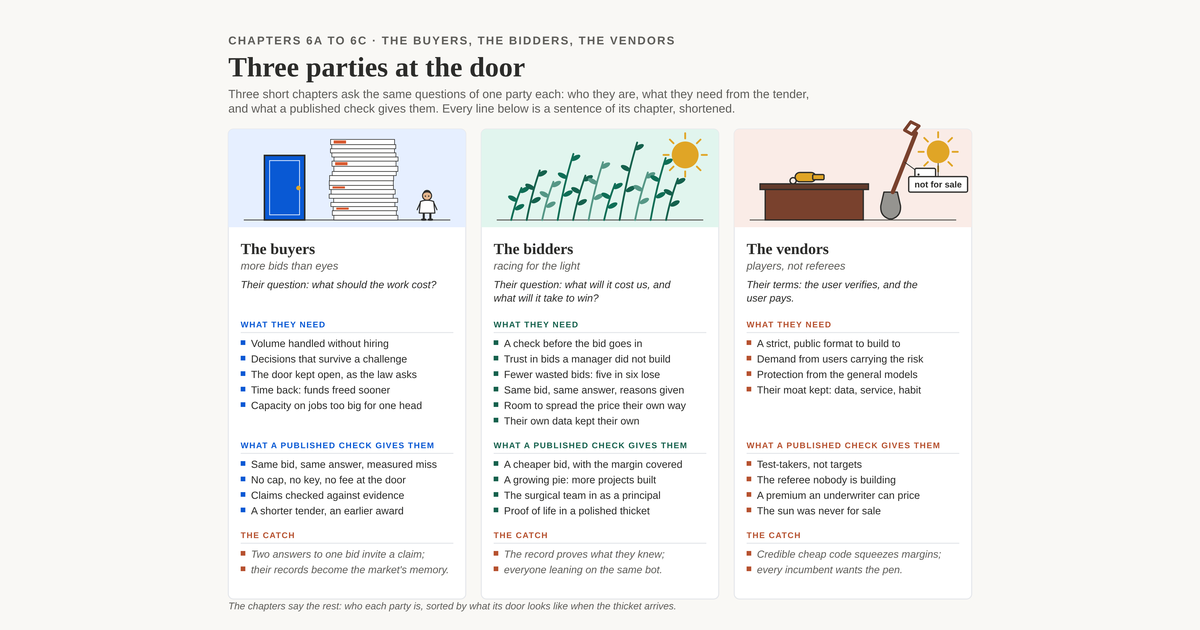
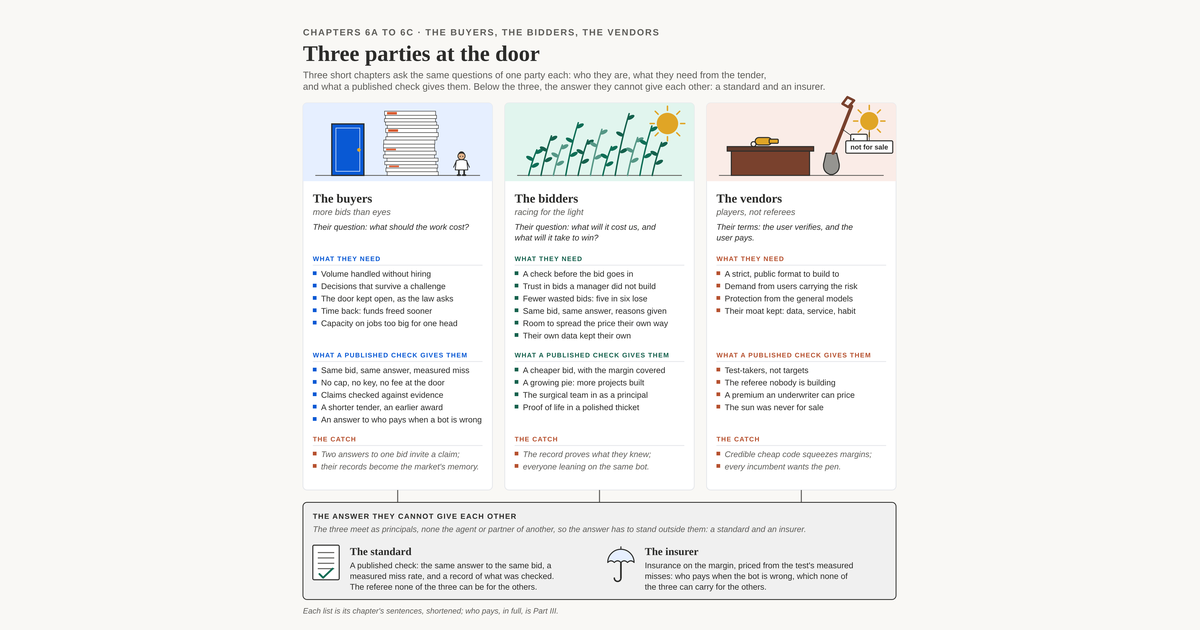
Chapter 6 and 6a: the standard and the insurer join the three parties; the slack chart returns with the book's instruments
"Three parties at the door" gains a band under the three panels for
the answer they cannot give each other, the standard and the insurer,
since the parties meet as principals. "Slack, and the other option"
goes back to the chart, which read better than the ledger, with the
ledger's roots folded into its two boxes and its slack label. Alt
texts, hidden notes, the images README, 6a's link card and the site
preview text follow.

Claude-Session: https://claude.ai/code/session_01JEzVpenYYc4HngcZLpHT1H

Changed region(s): [[0.185, 0.0302, 0.8017, 0.9952]]

diff --git a/images/slack_other_option.py b/images/slack_other_option.py
@@ -1,5 +1,5 @@
-"""Slack, and the other option: Galbraith's two choices, found across the book (chapter 6; a ledger, not data).
-Usage: python images/slack_other_option.py images/slack-other-option   (writes the .svg and an .html; render at 1600 1200, see images/README.md)
+"""Slack, and the other option: Galbraith's two choices (chapter 6, schematic, not data), with the book's slack and capacity instruments listed.
+Usage: python images/slack_other_option.py images/slack-other-option   (writes the .svg and an .html; render at 1600 1240, see images/README.md)
 """
 import sys, html
 C = dict(action="#0064ff", action_t="#e6efff", sec="#0f6e56", sec_t="#e1f5ee",
@@ -9,7 +9,7 @@ def mix(a, b, f):
     A = [int(a[i:i+2], 16) for i in (1, 3, 5)]; B = [int(b[i:i+2], 16) for i in (1, 3, 5)]
     return "#%02x%02x%02x" % tuple(round(A[i] + (B[i] - A[i]) * f) for i in range(3))
 D = {k: mix(C[k], C["ink"], 0.2) for k in ("action", "sec", "acc", "ink2")}
-W, H = 1600, 1200
+W, H = 1600, 1240
 def t(x, y, s, cls, fill=None, anchor="start"):
     f = f' fill="{fill}"' if fill else ""
     return f'<text x="{x}" y="{y}" class="{cls}" text-anchor="{anchor}"{f}>{html.escape(s)}</text>'
@@ -25,80 +25,93 @@ def wrap(s, n):
 o = [f'<rect width="{W}" height="{H}" fill="{C["canvas"]}"/>']
 o.append(t(80, 86, "CHAPTER 6 · SLACK, AND THE OTHER OPTION", "eyebrow"))
 o.append(t(80, 148, "Slack, and the other option", "title"))
-o.append(t(80, 190, "An organization facing more than it can process has two choices, Galbraith wrote: add slack, or raise its capacity to", "dek"))
-o.append(t(80, 218, "process information. Construction has always chosen slack. Here is where this book finds it, and what the project puts in its place.", "dek"))
-# ---- the two columns and the spine between them
-LX0, LX1, RX0, RX1, SX = 80, 660, 940, 1520, 800
-CWID = LX1 - LX0
-o.append(t(LX0, 302, "Add slack", "lab", D["ink2"]))
-o.append(t(LX0, 332, "construction's habit: more time, more money, more cushion between the parts", "note", C["ink2"]))
-o.append(f'<line x1="{LX0}" y1="348" x2="{LX1}" y2="348" stroke="{D["ink2"]}" stroke-width="3"/>')
-o.append(t(RX0, 302, "Raise the capacity", "lab", D["sec"]))
-o.append(t(RX0, 332, "the other option: the same check for every bid, with a record", "note", C["ink2"]))
-o.append(f'<line x1="{RX0}" y1="348" x2="{RX1}" y2="348" stroke="{D["sec"]}" stroke-width="3"/>')
-rows = [
-    ("The drawings",
-     "Bug-free drawings are a mythical beast, so the bid carries a cushion for their errors.",
-     "A second opinion on every price: a check that flags a line for the firm's own review before the bid goes in."),
-    ("The tender",
-     "A long tender period, a plan room and an evaluation committee, built for a few large bidders and time to read.",
-     "The tender as a data file, and the same check applied the same way to every bid: same bid, same answer, a measured miss rate."),
-    ("The cost of bidding",
-     "The oak: an estimating department, a bonding line and the patience to lose five bids in six, billed as overhead to the jobs that are won.",
-     "A published check reads a thousand bids the same way, so the door stays open without a cap, a key or a fee, and the cost to bid drops."),
-    ("After the award",
-     "The contingency carries a cushion for the rest, and every change is a purchase from a supplier of one, reviewed by whoever has time.",
-     "The evaluator prices each line of a change and hands it to the keyholder, who signs with a reason and leaves a record of what was checked."),
-    ("Who pays",
-     "The margin eats the error: a miss the size of the winner's lead is the year's profit on the job, and the surety stands behind the firm.",
-     "Insurance on the margin picks up the tails a probabilistic tool will always have, priced from the test's measured misses."),
-    ("The whole industry",
-     "Taylorism's gains have plateaued, and so has the largest firm: it bids on a lot and works on a lot, and its size stays where it is.",
-     "A standard: a template and a record, a public test, and a market memory anyone can read against, so more workers step into principal roles."),
+o.append(t(80, 190, "An organization facing more than it can process has two choices, Galbraith wrote: add slack, or raise its capacity", "dek"))
+o.append(t(80, 218, "to process information. Construction has always chosen slack. AI took the slack away and left the attention needed where it was.", "dek"))
+# ---- the chart
+X0, X1, Y0, Y1 = 160, 960, 330, 1080
+ATT = 800
+def bids_y(x):
+    if x <= 760:
+        return 1020 - (x - X0) * 0.05
+    u = (x - 760) / (X1 - 760)
+    return 1020 - (760 - X0) * 0.05 - 600 * (u ** 2.2)
+pts = [(x, bids_y(x)) for x in range(X0, X1 + 1, 4)]
+xcross = next(x for x, y in pts if y <= ATT)
+before = [(x, y) for x, y in pts if x <= xcross] + [(xcross, ATT), (X0, ATT)]
+after = [(x, y) for x, y in pts if x >= xcross] + [(X1, ATT), (xcross, ATT)]
+o.append('<polygon points="' + " ".join(f"{x:.1f},{y:.1f}" for x, y in before) + f'" fill="{C["sec_t"]}"/>')
+o.append('<polygon points="' + " ".join(f"{x:.1f},{y:.1f}" for x, y in after) + f'" fill="{C["acc_t"]}"/>')
+for ex in (480, 760):
+    o.append(f'<line x1="{ex}" y1="{Y0}" x2="{ex}" y2="{Y1}" stroke="{C["hair"]}" stroke-width="2" stroke-dasharray="6 6"/>')
+o.append(f'<line x1="{X0}" y1="{Y1}" x2="{X1}" y2="{Y1}" stroke="{C["ink2"]}" stroke-width="2"/>')
+o.append(f'<line x1="{X0}" y1="{Y0}" x2="{X0}" y2="{Y1}" stroke="{C["ink2"]}" stroke-width="2"/>')
+o.append(f'<line x1="{X0}" y1="{ATT}" x2="{X1}" y2="{ATT}" stroke="{C["action"]}" stroke-width="3.5" stroke-linecap="round"/>')
+o.append('<path d="M' + " L".join(f"{x:.1f},{y:.1f}" for x, y in pts) + f'" fill="none" stroke="{C["acc"]}" stroke-width="3.5" stroke-linecap="round" stroke-linejoin="round"/>')
+o.append(f'<circle cx="{X1}" cy="{bids_y(X1):.1f}" r="7" fill="{C["acc"]}" stroke="{C["canvas"]}" stroke-width="2"/>')
+o.append(f'<circle cx="{X1}" cy="{ATT}" r="7" fill="{C["action"]}" stroke="{C["canvas"]}" stroke-width="2"/>')
+o.append(t(X0 - 8, Y0 - 14, "how many", "axis", C["ink2"], "start"))
+for (xa, xb, lab) in ((X0, 480, "the plan room"), (480, 760, "the plan room online"), (760, X1, "AI makes the call nearly free")):
+    o.append(t((xa + xb) / 2, Y1 + 34, lab, "axis", C["ink2"], "middle"))
+o.append(t((X0 + X1) / 2, Y1 + 62, "time, left to right", "axisnote", C["ink2"], "middle"))
+# region labels: slack below the attention line, the thicket above it
+o.append(t(400, 870, "slack", "lab", D["sec"], "middle"))
+o.append(t(400, 898, "the oak kept the stack of bids", "note", C["ink"], "middle"))
+o.append(t(400, 923, "small enough for a committee to read;", "note", C["ink"], "middle"))
+o.append(t(400, 948, "under it, the cushion, the contingency,", "note", C["ink"], "middle"))
+o.append(t(400, 973, "the long tender, the margin that eats the error", "note", C["ink"], "middle"))
+o.append(t(880, 560, "the thicket", "lab", D["acc"], "end"))
+o.append(t(880, 588, "slack released without", "note", C["ink"], "end"))
+o.append(t(880, 614, "the capacity to meet it", "note", C["ink"], "end"))
+o.append(f'<line x1="{X1-50}" y1="{bids_y(X1)-30:.1f}" x2="{X1-14}" y2="{bids_y(X1)-30:.1f}" stroke="{C["acc"]}" stroke-width="3.5"/>')
+o.append(t(X1 - 60, bids_y(X1) - 24, "bids arriving at the door", "note", C["ink"], "end"))
+o.append(f'<line x1="{X0+16}" y1="{ATT-26}" x2="{X0+56}" y2="{ATT-26}" stroke="{C["action"]}" stroke-width="3.5"/>')
+o.append(t(X0 + 66, ATT - 20, "the attention available to read them", "note", C["ink"], "start"))
+o.append(f'<line x1="{X0}" y1="{Y0+4}" x2="{X0+36}" y2="{Y0+4}" stroke="{C["acc"]}" stroke-width="3.5"/>')
+o.append(t(X0 + 46, Y0 + 10, "bids per tender", "legend", C["ink2"]))
+o.append(f'<line x1="{X0+230}" y1="{Y0+4}" x2="{X0+266}" y2="{Y0+4}" stroke="{C["action"]}" stroke-width="3.5"/>')
+o.append(t(X0 + 276, Y0 + 10, "eyes to read them", "legend", C["ink2"]))
+# ---- the two choices, with where the book finds each
+RX = 1040
+o.append(t(RX, 334, "Two choices, through the book", "lab", C["ink"]))
+boxes = [
+    (360, "Add slack", D["ink2"], C["hair"],
+     ["A bid cushion for the drawings' errors", "A long tender, a plan room, a committee", "The oak: five bids in six lost, as overhead",
+      "A contingency for the rest", "Changes bought from a supplier of one", "Reviews by whoever has time",
+      "The margin eats the error; the surety waits", "Taylorism and the largest firms plateau"],
+     "Construction's habit. It no longer works: AI removed the slack and left the attention needed exactly where it was."),
+    (730, "Raise the capacity", D["sec"], C["sec_t"],
+     ["A second opinion on every price", "The tender as a data file", "The same check, the same way, every bid",
+      "A measured miss rate, and a record", "The door open: no cap, no key, no fee", "The evaluator, and the keyholder who signs",
+      "Insurance on the margin picks up the tails", "A standard: template, record, public test"],
+     "The other option. More data moves faster through the door without anyone acquiring a say they did not have before."),
 ]
-Y0, PITCH, CH = 380, 110, 96
-o.append(f'<line x1="{SX}" y1="{Y0-6}" x2="{SX}" y2="{Y0+len(rows)*PITCH-14}" stroke="{C["hair"]}" stroke-width="3"/>')
-for i, (station, left, right) in enumerate(rows):
-    y = Y0 + i * PITCH
-    o.append(f'<rect x="{LX0}" y="{y}" width="{CWID}" height="{CH}" rx="8" fill="{C["hair"]}" stroke="{D["ink2"]}" stroke-width="1.5"/>')
-    yy = y + 34
-    for ln in wrap(left, 50):
-        o.append(t(LX0 + 22, yy, ln, "cell", C["ink"])); yy += 26
-    o.append(f'<rect x="{RX0}" y="{y}" width="{CWID}" height="{CH}" rx="8" fill="{C["sec_t"]}" stroke="{D["sec"]}" stroke-width="1.5"/>')
-    yy = y + 34
-    for ln in wrap(right, 50):
-        o.append(t(RX0 + 22, yy, ln, "cell", C["ink"])); yy += 26
-    o.append(f'<circle cx="{SX}" cy="{y+16}" r="9" fill="{C["canvas"]}" stroke="{C["ink"]}" stroke-width="3"/>')
-    o.append(f'<text x="{SX}" y="{y+52}" class="station" text-anchor="middle" fill="{C["ink"]}" stroke="{C["canvas"]}" stroke-width="10" paint-order="stroke" stroke-linejoin="round">{html.escape(station)}</text>')
-# ---- what changed, in one band
-yb = Y0 + len(rows) * PITCH + 16
-o.append(f'<line x1="80" y1="{yb}" x2="{W-80}" y2="{yb}" stroke="{C["hair"]}" stroke-width="2"/>')
-o.append(t(80, yb + 40, "What changed: AI made the call nearly free. It did not remove the uncertainty. It removed the slack, and left the", "cell", C["ink"]))
-o.append(t(80, yb + 68, "attention needed exactly where it was. The thicket is slack released without the capacity to meet it.", "cell", C["ink"]))
-MX0, MX1, MY = 1250, 1470, yb + 56
-o.append(f'<line x1="{MX0}" y1="{MY}" x2="{MX1}" y2="{MY}" stroke="{C["action"]}" stroke-width="3" stroke-linecap="round"/>')
-pts = []
-for k in range(0, 101):
-    u = k / 100; x = MX0 + (MX1 - MX0) * u
-    yv = MY + 30 - 12 * u - 56 * (u ** 4)
-    pts.append(f"{x:.1f},{yv:.1f}")
-o.append(f'<path d="M' + " L".join(pts) + f'" fill="none" stroke="{C["acc"]}" stroke-width="3" stroke-linecap="round"/>')
-o.append(t(MX1 + 12, MY + 6, "eyes", "mini", C["ink"]))
-o.append(t(MX1 + 12, MY - 34, "bids", "mini", C["ink"]))
-o.append(t(80, H - 40, "A ledger, not data: each cell is a sentence of the book, shortened; the two lines on the right show the idea, not counts.", "foot", C["ink2"]))
+for (by, title, col, fill, items, verdict) in boxes:
+    o.append(f'<rect x="{RX}" y="{by}" width="{W-80-RX}" height="350" rx="8" fill="{fill}" stroke="{col}" stroke-width="3"/>')
+    o.append(t(RX + 24, by + 44, title, "boxtitle", col))
+    y = by + 78
+    for it in items:
+        o.append(f'<rect x="{RX+24}" y="{y-12}" width="8" height="8" fill="{col}"/>')
+        o.append(t(RX + 42, y, it, "item", C["ink"])); y += 26
+    y += 6
+    for ln in wrap(verdict, 46):
+        o.append(t(RX + 24, y, ln, "tiny", C["ink2"])); y += 23
+o.append(t(80, H - 40, "Schematic, not data: the lines show the idea, not counts. The lists are sentences from across the book, shortened.", "foot", C["ink2"]))
 css = f'''<style>
 .eyebrow{{font:600 22px "IBM Plex Sans",Arial,sans-serif;letter-spacing:.12em;fill:{C["ink2"]}}}
 .title{{font:700 54px Georgia,"Times New Roman",serif;fill:{C["ink"]}}}
 .dek{{font:400 23px "IBM Plex Sans",Arial,sans-serif;fill:{C["ink2"]}}}
 .lab{{font:700 30px Georgia,serif}}
-.station{{font:700 22px Georgia,serif}}
+.boxtitle{{font:700 27px Georgia,serif}}
 .note{{font:400 20px "IBM Plex Sans",Arial,sans-serif}}
-.cell{{font:400 21px "IBM Plex Sans",Arial,sans-serif}}
-.mini{{font:600 17px "IBM Plex Sans",Arial,sans-serif}}
+.item{{font:400 19px "IBM Plex Sans",Arial,sans-serif}}
+.legend{{font:600 18px "IBM Plex Sans",Arial,sans-serif}}
+.axis{{font:400 19px "IBM Plex Sans",Arial,sans-serif}}
+.axisnote{{font:italic 400 17px "IBM Plex Sans",Arial,sans-serif}}
+.tiny{{font:italic 400 18px "IBM Plex Sans",Arial,sans-serif}}
 .foot{{font:italic 400 19px "IBM Plex Sans",Arial,sans-serif}}
 </style>'''
 svg = f'<svg xmlns="http://www.w3.org/2000/svg" viewBox="0 0 {W} {H}" width="{W}" height="{H}">{css}' + "".join(o) + "</svg>"
 stem = sys.argv[1] if len(sys.argv) > 1 else "slack-other-option"
 open(stem + ".svg", "w").write(svg)
 open(stem + ".html", "w").write('<!doctype html><html><head><meta charset="utf-8"><style>html,body{margin:0;background:#f9f8f5}</style></head><body>' + svg + "</body></html>")
-print("wrote", stem, "band at", yb)
+print("wrote", stem, "cross at", xcross)

diff --git a/images/three_parties.py b/images/three_parties.py
@@ -1,5 +1,5 @@
 """Three parties at the door: the buyers, the bidders and the vendors (chapters 6a to 6c, three panels).
-Usage: python images/three_parties.py images/three-parties   (writes the .svg and an .html; render at 1600 1220, see images/README.md)
+Usage: python images/three_parties.py images/three-parties   (writes the .svg and an .html; render at 1600 1530, see images/README.md)
 """
 import sys, html, math, random
 C = dict(action="#0064ff", action_t="#e6efff", sec="#0f6e56", sec_t="#e1f5ee",
@@ -9,7 +9,7 @@ def mix(a, b, f):
     A = [int(a[i:i+2], 16) for i in (1, 3, 5)]; B = [int(b[i:i+2], 16) for i in (1, 3, 5)]
     return "#%02x%02x%02x" % tuple(round(A[i] + (B[i] - A[i]) * f) for i in range(3))
 D = {k: mix(C[k], C["ink"], 0.2) for k in ("action", "sec", "acc", "ink2")}
-W, H = 1600, 1220
+W, H = 1600, 1530
 GOLD = "#e0a526"; BARK = mix(C["acc"], C["ink"], 0.55)
 L = f'stroke="{C["ink"]}" stroke-width="2.5" stroke-linejoin="round" stroke-linecap="round"'
 def t(x, y, s, cls, fill=None, anchor="start"):
@@ -42,14 +42,14 @@ def sun(x, y, r):
         g.append(f'<line x1="{x+math.cos(a)*(r+6):.1f}" y1="{y+math.sin(a)*(r+6):.1f}" x2="{x+math.cos(a)*(r+16):.1f}" y2="{y+math.sin(a)*(r+16):.1f}" stroke="{GOLD}" stroke-width="3.5" stroke-linecap="round"/>')
     g.append(f'<circle cx="{x}" cy="{y}" r="{r}" fill="{GOLD}"/>')
     return "".join(g)
-TOP, BOT, CW = 250, 1160, 460
+TOP, BOT, CW = 250, 1190, 460
 XS = (80, 570, 1060)
 BAND = 190
 o = [f'<rect width="{W}" height="{H}" fill="{C["canvas"]}"/>']
 o.append(t(80, 86, "CHAPTERS 6A TO 6C · THE BUYERS, THE BIDDERS, THE VENDORS", "eyebrow"))
 o.append(t(80, 148, "Three parties at the door", "title"))
 o.append(t(80, 190, "Three short chapters ask the same questions of one party each: who they are, what they need from the tender,", "dek"))
-o.append(t(80, 218, "and what a published check gives them. Every line below is a sentence of its chapter, shortened.", "dek"))
+o.append(t(80, 218, "and what a published check gives them. Below the three, the answer they cannot give each other: a standard and an insurer.", "dek"))
 # ---- icons, drawn inside the tinted band at the top of each panel
 def icon_buyers(bx, by):
     gy = by + BAND - 14; g = []
@@ -107,7 +107,7 @@ parties = [
          need=["Volume handled without hiring", "Decisions that survive a challenge", "The door kept open, as the law asks",
                "Time back: funds freed sooner", "Capacity on jobs too big for one head"],
          gives=["Same bid, same answer, measured miss", "No cap, no key, no fee at the door",
-                "Claims checked against evidence", "A shorter tender, an earlier award"],
+                "Claims checked against evidence", "A shorter tender, an earlier award", "An answer to who pays when a bot is wrong"],
          catch=["Two answers to one bid invite a claim;", "their records become the market's memory."]),
     dict(name="The bidders", sub="racing for the light", tint=C["sec_t"], dark=D["sec"], icon=icon_bidders,
          q="Their question: what will it cost us, and what will it take to win?",
@@ -127,7 +127,7 @@ parties = [
 NAME_Y = TOP + BAND + 52
 Y_NEED = NAME_Y + 66 + 2 * 26 + 24
 Y_GIVES = Y_NEED + 38 + 6 * 30 + 16
-Y_CATCH = Y_GIVES + 38 + 4 * 30 + 16
+Y_CATCH = Y_GIVES + 38 + 5 * 30 + 16
 def block(x, y, label, items, col, cls):
     o.append(t(x + 24, y, label, "blab", col))
     o.append(f'<line x1="{x+24}" y1="{y+10}" x2="{x+CW-24}" y2="{y+10}" stroke="{C["hair"]}" stroke-width="2"/>')
@@ -148,7 +148,35 @@ for x, p in zip(XS, parties):
     block(x, Y_NEED, "WHAT THEY NEED", p["need"], p["dark"], "item")
     block(x, Y_GIVES, "WHAT A PUBLISHED CHECK GIVES THEM", p["gives"], p["dark"], "item")
     block(x, Y_CATCH, "THE CATCH", p["catch"], D["acc"], "catch")
-o.append(t(80, H - 40, "The chapters say the rest: who each party is, sorted by what its door looks like when the thicket arrives.", "foot", C["ink2"]))
+def icon_rules(x, y):
+    g = [f'<rect x="{x}" y="{y}" width="64" height="84" rx="3" fill="#ffffff" {L}/>']
+    for k in range(4):
+        g.append(f'<line x1="{x+12}" y1="{y+18+k*13}" x2="{x+52}" y2="{y+18+k*13}" stroke="{C["ink2"]}" stroke-width="2.5"/>')
+    g.append(f'<path d="M{x+16},{y+70} l9,9 l23,-22" fill="none" stroke="{C["sec"]}" stroke-width="4.5" stroke-linecap="round" stroke-linejoin="round"/>')
+    return "".join(g)
+def icon_umbrella(x, y):
+    g = [f'<path d="M{x},{y+42} a32,32 0 0 1 64,0 q-8,-8 -16,0 q-8,-8 -16,0 q-8,-8 -16,0 q-8,-8 -16,0 z" fill="{C["action_t"]}" {L}/>']
+    g.append(f'<line x1="{x+32}" y1="{y+10}" x2="{x+32}" y2="{y+4}" {L}/>')
+    g.append(f'<line x1="{x+32}" y1="{y+42}" x2="{x+32}" y2="{y+80}" stroke="{C["ink"]}" stroke-width="4"/>')
+    g.append(f'<path d="M{x+32},{y+80} a8,8 0 0 1 -16,0" fill="none" stroke="{C["ink"]}" stroke-width="3.5" stroke-linecap="round"/>')
+    return "".join(g)
+BY0, BH = BOT + 30, 236
+for x in XS:
+    o.append(f'<line x1="{x+CW/2}" y1="{BOT}" x2="{x+CW/2}" y2="{BY0}" stroke="{C["ink2"]}" stroke-width="2.5"/>')
+o.append(f'<rect x="80" y="{BY0}" width="{W-160}" height="{BH}" rx="10" fill="{mix(C["hair"], C["canvas"], 0.55)}" stroke="{C["ink"]}" stroke-width="2"/>')
+o.append(t(104, BY0 + 40, "THE ANSWER THEY CANNOT GIVE EACH OTHER", "bhead", C["ink"]))
+o.append(t(104, BY0 + 72, "The three meet as principals, none the agent or partner of another, so the answer has to stand outside them: a standard and an insurer.", "bsub", C["ink2"]))
+halves = [
+    (104, "The standard", icon_rules, "A published check: the same answer to the same bid, a measured miss rate, and a record of what was checked. The referee none of the three can be for the others."),
+    (820, "The insurer", icon_umbrella, "Insurance on the margin, priced from the test's measured misses: who pays when the bot is wrong, which none of the three can carry for the others."),
+]
+for hx, name, icon, body in halves:
+    o.append(icon(hx, BY0 + 104))
+    o.append(t(hx + 90, BY0 + 128, name, "ans", C["ink"]))
+    yy = BY0 + 160
+    for ln in wrap(body, 56):
+        o.append(t(hx + 90, yy, ln, "anstext", C["ink"])); yy += 26
+o.append(t(80, H - 40, "Each list is its chapter's sentences, shortened; who pays, in full, is Part III.", "foot", C["ink2"]))
 css = f'''<style>
 .eyebrow{{font:600 22px "IBM Plex Sans",Arial,sans-serif;letter-spacing:.12em;fill:{C["ink2"]}}}
 .title{{font:700 54px Georgia,"Times New Roman",serif;fill:{C["ink"]}}}
@@ -161,6 +189,10 @@ css = f'''<style>
 .catch{{font:italic 400 20px "IBM Plex Sans",Arial,sans-serif}}
 .tagtext{{font:600 17px "IBM Plex Sans",Arial,sans-serif}}
 .foot{{font:italic 400 19px "IBM Plex Sans",Arial,sans-serif}}
+.bhead{{font:600 18px "IBM Plex Sans",Arial,sans-serif;letter-spacing:.1em}}
+.bsub{{font:italic 400 20px "IBM Plex Sans",Arial,sans-serif}}
+.ans{{font:700 26px Georgia,serif}}
+.anstext{{font:400 20px "IBM Plex Sans",Arial,sans-serif}}
 </style>'''
 svg = f'<svg xmlns="http://www.w3.org/2000/svg" viewBox="0 0 {W} {H}" width="{W}" height="{H}">{css}' + "".join(o) + "</svg>"
 stem = sys.argv[1] if len(sys.argv) > 1 else "three-parties"

diff --git a/build_site.py b/build_site.py
@@ -41,7 +41,7 @@ PREVIEWS = {
     "02-the-tender-is-the-api.md": ("social-card-oak-falls.png",
         "The oak falls: the cost of bidding stood as an oak over the market for a century; where it stood, a thicket races for the light"),
     "02b-the-buyers.md": ("social-card-three-parties.png",
-        "Three parties at the door: the buyers with more bids than eyes, the bidders racing for the light, the vendors selling shovels; what each needs and what a published check gives them"),
+        "Three parties at the door: the buyers with more bids than eyes, the bidders racing for the light, the vendors selling shovels; what each needs, what a published check gives them, and the standard and the insurer beneath them"),
     "app-e-pilot-term-sheet.md": ("social-card-one-losing-job.png",
         "A draft term sheet for a pilot policy insuring an estimating bot's margin, for an underwriter to mark up"),
 }

diff --git a/images/README.md b/images/README.md
@@ -15,5 +15,5 @@ Figures for the book, the site and the PiBoWriMo listing. They are covered by th
 - `tender-api-door.png` (and `.svg`): "One door between two rooms", chapter 6's figure for the redescription of the tender as an interface. The design room (the engineer's beam) and the construction room (the builder's crew schedule, with a surety standing behind the builder), and between them the tender as a door made of a stack of PDFs, the call (the bill of quantities) going one way and the answer (the bid) coming back. Book palette as solid colours. Rebuild with `python images/tender_api_door.py images/tender-api-door`, then `node images/project_hex_map_render.js "$PWD/images/tender-api-door.html" images/tender-api-door.png 1600 1100`.
 - `oak-falls.png` (and `.svg`): "The oak falls", chapter 6's figure for "The cost of a call" and "The oak falls". Left, the cost of bidding as an oak, with a few large bidders and the plan room grown in its shade and the rest shaded out; right, the stump, the fallen trunk, light pouring into the clearing and a thicket racing for it, over a forest floor that is the market's record. Also the chapter's link card (`social-card-oak-falls.png`). Rebuild with `python images/oak_falls.py images/oak-falls`, then `node images/project_hex_map_render.js "$PWD/images/oak-falls.html" images/oak-falls.png 1600 1000`.
 - `four-doors.png` (and `.svg`): "Four ways to answer a flooded door", chapter 6's figure for the section of that name. Cap, key, fee and the published check as four doors, each with its device (a plate reading two a month and a rope barrier; a keyhole and a key on a hook; a slot marked insert bond and a coin; a door standing open with the rules posted beside it), its online twin, its construction twin and the chapter's verdict. Rebuild with `python images/four_doors.py images/four-doors`, then `node images/project_hex_map_render.js "$PWD/images/four-doors.html" images/four-doors.png 1600 1210`.
-- `slack-other-option.png` (and `.svg`): "Slack, and the other option", chapter 6's figure for the section of that name. A ledger, not data: Galbraith's two choices as two columns, add slack and raise the capacity, down six stations of a project's life (the drawings, the tender, the cost of bidding, after the award, who pays, the whole industry), each cell a sentence of the book shortened; a band below says what changed, with two small lines for bids climbing past the eyes available. Rebuild with `python images/slack_other_option.py images/slack-other-option`, then `node images/project_hex_map_render.js "$PWD/images/slack-other-option.html" images/slack-other-option.png 1600 1200`.
-- `three-parties.png` (and `.svg`): "Three parties at the door", the shared figure of chapters 6a to 6c, placed at the top of 6a. Three panels, one per chapter, each with an icon (the buyers' door and a stack of bids taller than the reader; the bidders' thicket leaning to a sun; the vendors' counter with a whistle, a shovel with a price tag and a sun marked not for sale), the party's question, and three lists in the chapters' own words shortened: what they need, what a published check gives them, the catch. Also 6a's link card (`social-card-three-parties.png`). Rebuild with `python images/three_parties.py images/three-parties`, then `node images/project_hex_map_render.js "$PWD/images/three-parties.html" images/three-parties.png 1600 1220`.
+- `slack-other-option.png` (and `.svg`): "Slack, and the other option", chapter 6's figure for the section of that name. A schematic chart, not data: bids per tender against the eyes available to read them, from the plan room through the plan room online to AI making the call nearly free; the attention line stays flat while the bids climb past it, the gap below marked slack and the gap above the thicket; beside it Galbraith's two choices as two lists of where the book finds each, add slack (the cushion, the long tender, the oak, the contingency, the supplier of one, the margin, Taylorism's plateau) and raise the capacity (the second opinion, the tender as data, the same check, the record, the open door, the evaluator and keyholder, insurance on the margin, the standard). Rebuild with `python images/slack_other_option.py images/slack-other-option`, then `node images/project_hex_map_render.js "$PWD/images/slack-other-option.html" images/slack-other-option.png 1600 1240`.
+- `three-parties.png` (and `.svg`): "Three parties at the door", the shared figure of chapters 6a to 6c, placed at the top of 6a. Three panels, one per chapter, each with an icon (the buyers' door and a stack of bids taller than the reader; the bidders' thicket leaning to a sun; the vendors' counter with a whistle, a shovel with a price tag and a sun marked not for sale), the party's question, and three lists in the chapters' own words shortened: what they need, what a published check gives them, the catch. Under the three, a band for the answer they cannot give each other, since they meet as principals: the standard and the insurer. Also 6a's link card (`social-card-three-parties.png`). Rebuild with `python images/three_parties.py images/three-parties`, then `node images/project_hex_map_render.js "$PWD/images/three-parties.html" images/three-parties.png 1600 1530`.

diff --git a/manuscript/02-the-tender-is-the-api.md b/manuscript/02-the-tender-is-the-api.md
@@ -42,7 +42,7 @@ The organization theorist Jay Galbraith wrote, in the late 1960s and the 1970s, 
 
 Construction has always chosen slack. The tender period is long. The bid carries a cushion for the errors in the drawings, and the contingency carries a cushion for the rest. The oak was slack too, a cost so high that only a few could pay it, which kept the stack of bids small enough for a committee to read. Moving the plan room onto the internet did not change this. It raised processing capacity by removing the need to travel to bid, but the actual attention needed remained the same. AI did not remove the uncertainty either. It removed the slack, and left the attention needed exactly where it was. The thicket is slack released without the capacity to meet it.
 
-![Slack, and the other option: a ledger of Galbraith's two choices, add slack on the left and raise the capacity on the right, down six stations of a project's life: the drawings (a cushion in the bid for their errors; a second opinion on every price), the tender (a long period, a plan room and a committee; the tender as a data file and the same check for every bid), the cost of bidding (the oak and five bids in six lost; a published check that keeps the door open), after the award (the contingency and changes bought from a supplier of one; the evaluator and the keyholder's signed record), who pays (the margin eats the error; insurance on the margin picks up the tails) and the whole industry (Taylorism's plateau; a standard, a template and a record and an open market memory); below, what changed: AI made the call nearly free and removed the slack, with two small lines showing bids climbing past the eyes available](../images/slack-other-option.png)
+![Slack, and the other option: a schematic chart of bids per tender against the eyes available to read them, from the plan room through the plan room online to AI making the call nearly free; the attention line stays flat while the bids line climbs past it, with the gap below marked slack (the oak kept the stack small; under it the cushion, the contingency, the long tender and the margin that eats the error) and the gap above marked the thicket (slack released without the capacity to meet it); beside it Galbraith's two choices through the book: add slack (a bid cushion, a long tender, a plan room and a committee, the oak, a contingency, changes bought from a supplier of one, reviews by whoever has time, the margin and the surety, Taylorism's plateau) and raise the capacity (a second opinion on every price, the tender as a data file, the same check for every bid, a measured miss rate and a record, the door kept open, the evaluator and the keyholder, insurance on the margin, a standard with a template, a record and a public test)](../images/slack-other-option.png)
 
 A public buyer cannot simply hire more readers. More bidders are what the public wants from it, since an open door is what keeps out nepotism and bid-rigging, but more staff to read the bids is a hard thing to ask a legislature for. The public would rightly ask why the public servants don't use AI to evaluate the bids. The honest answer is too technical for a press release. An AI that scores bids can give two answers to the same bid. Someone has to pick one, and whoever picks has gained a say in who wins, which is exactly the discretion that strict tender rules exist to take away. Without a standard, AI scoring would invite a claim. The first such claim is already in a court. A losing bidder on a US Army contract worth about $450 million says the evaluators' AI tool invented a weakness in its proposal.
 

diff --git a/manuscript/02b-the-buyers.md b/manuscript/02b-the-buyers.md
@@ -2,7 +2,7 @@
 
 Chapter 2 sorted buyers by how they hire. This chapter sorts them by what their door looks like when the thicket arrives, because the flood does not land on every buyer the same way.
 
-![Three parties at the door: three panels, one for each of chapters 6a to 6c. The buyers, more bids than eyes, with a door and a stack of bids taller than the reader; the bidders, racing for the light, as a thicket of stems leaning towards a sun; the vendors, players not referees, as a counter with a whistle, a shovel with a price tag and a sun tagged not for sale. Each panel lists what the party needs, what a published check gives them and the catch, in the chapters' own sentences shortened](../images/three-parties.png)
+![Three parties at the door: three panels, one for each of chapters 6a to 6c. The buyers, more bids than eyes, with a door and a stack of bids taller than the reader; the bidders, racing for the light, as a thicket of stems leaning towards a sun; the vendors, players not referees, as a counter with a whistle, a shovel with a price tag and a sun tagged not for sale. Each panel lists what the party needs, what a published check gives them and the catch, in the chapters' own sentences shortened. Under the three, the answer they cannot give each other, since they meet as principals and none is the agent or partner of another: the standard, a published check with a measured miss rate and a record, and the insurer, insurance on the margin that says who pays when the bot is wrong](../images/three-parties.png)
 
 The highway agency has the best door in the industry. It measures the work itself and publishes the quantities, so a bid is a price per item and already travels as a data file. It prequalifies bidders, takes a bond, and writes down its reasons when a bid looks odd. Its priced bids have not flooded, and a bot can read them today. Its trouble is the written parts, the design-build proposals and the statements of qualifications, and the question of what it does when the lettings draw twice the bids and the staff does not grow.
 
